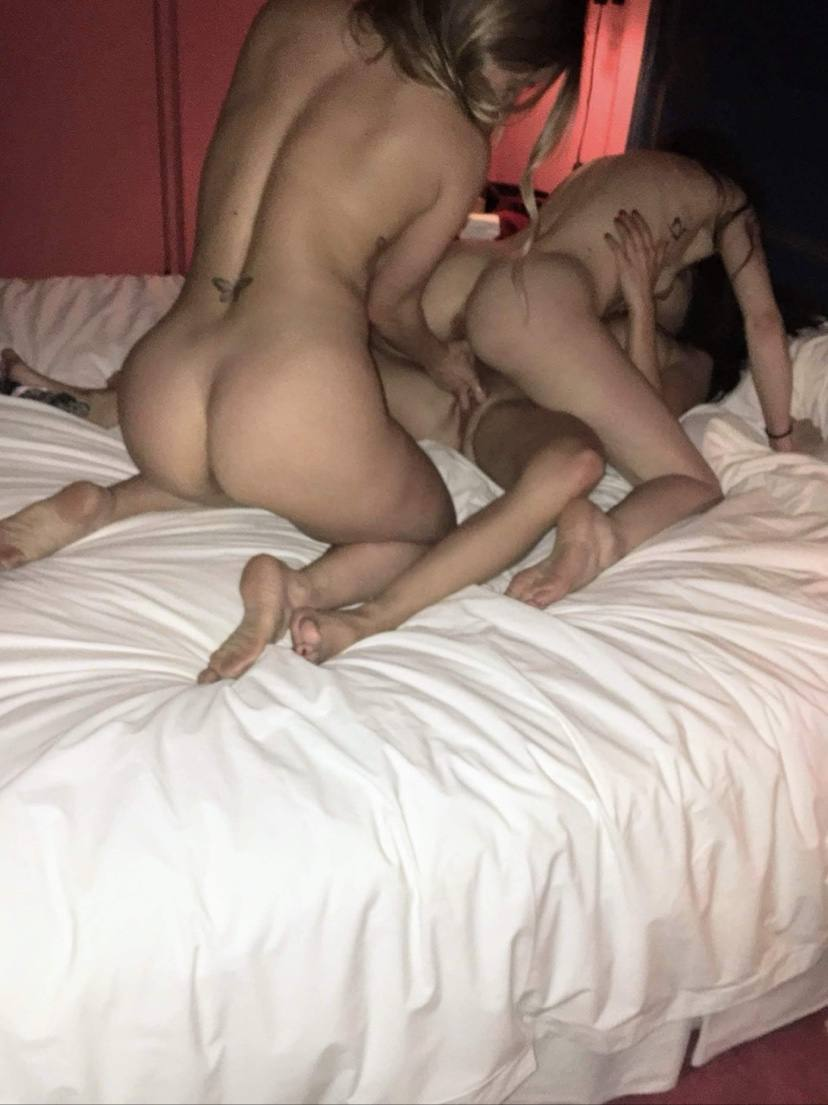
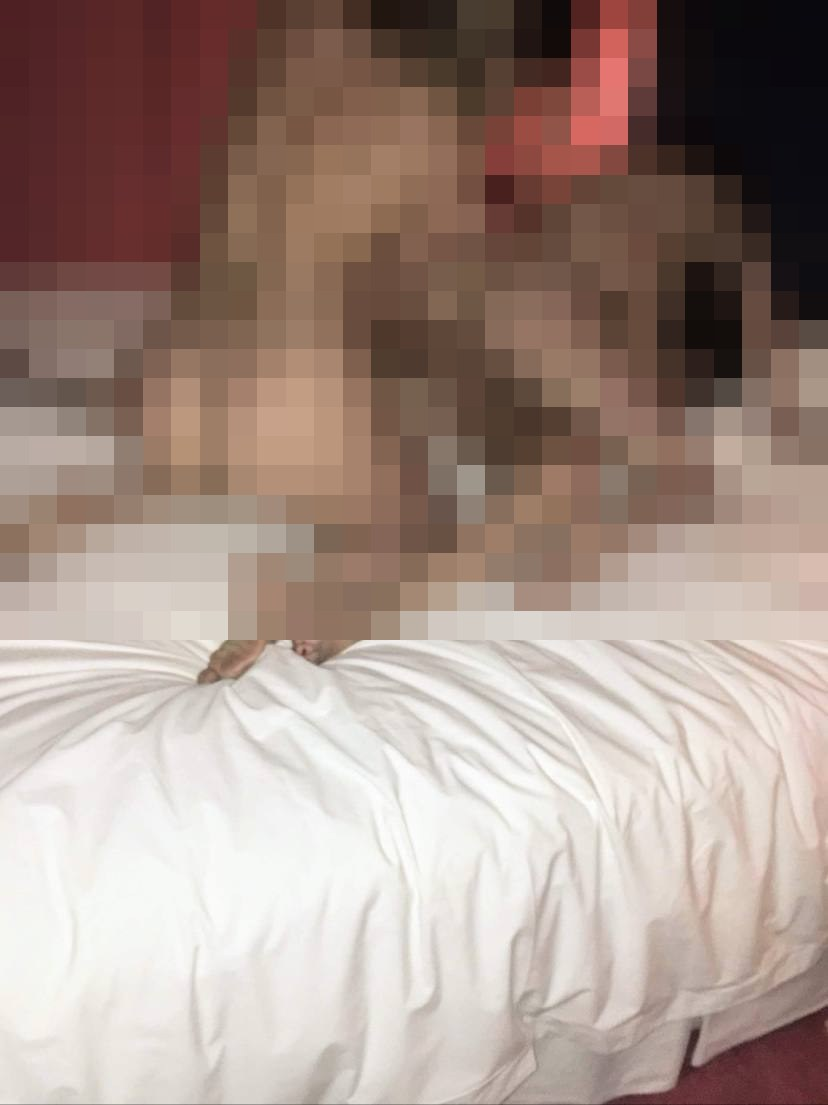
censor sweep: pixelate nudity in upload-015 (jaredtricia keepsake); registry + policy

diff --git a/wiki/people/jaredtricia.md b/wiki/people/jaredtricia.md
@@ -106,6 +106,6 @@ met is unknown.
 
 ## Media
 
-![Red-lit bedroom: GGG threesome keepsake photo](../media/upload-015.jpg)
+![Red-lit bedroom: GGG threesome keepsake photo (nudity pixelated)](../media/upload-015.jpg)
 
 *EXIF DateTime 2019:08:02 02:50:56 (Picasa stamp; Dan testifies this date is wrong for the event). Corpus dates the Jared/Tricia paid sessions to June 2019; the photo was requested/sent August 2019. — Compressed photo. 828x1105 JPEG, filename equals SHA-256, Software=Picasa. Red-lit bedroom; three people in sexual activity (two women visible; blonde with butterfly lower-back tattoo, dark-haired woman; third participant partially obscured). Dan's testimony 2026-09-11: Annie's 'GGG threesome' during a paid appointment with Trisha and Jared; the file date is wrong. Corpus corroboration: wiki/people/jaredtricia documents married Gramercy couple Jared and Tricia booking Annie (as 'Hazel') twice in June 2019 at $1,000/2 hours; in August 2019 Dan wrote to Trish as 'Hazel' requesting 'one or two of the pictures of the girl fun from the first time we met' - she sent it; Dan: 'i wanted that picture.' This image is assessed as that keepsake photo (provenance: sent by Trish, August 2019). Spelling note: Dan wrote 'Trisha'; wiki page uses 'Tricia/Trish'. Identities in frame rest on Dan's testimony, not independent identification.*
